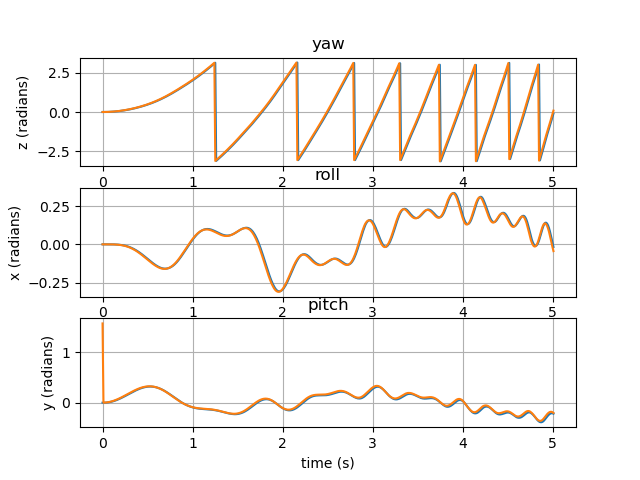
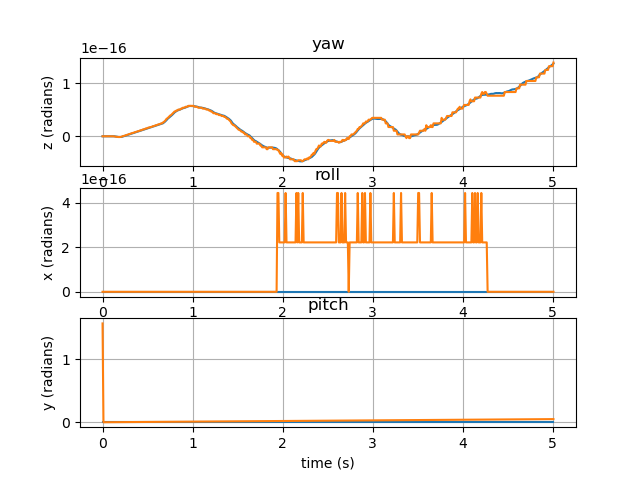
Not working controller

diff --git a/MultiRotorDynamics.py b/MultiRotorDynamics.py
@@ -19,17 +19,19 @@ class Limb:
         self.T = ut.transformation_matrix(self.R,self.t_vec)
 
 class Rotor(Limb):
-    def __init__(self, m, rot_vec, t_vec, rps, C_q, C_t):
+    def __init__(self, m, rot_vec, t_vec, rps, C_q, C_t, sigma):
         super().__init__(m,rot_vec,t_vec)
         self.rps = rps #Rotations per second
+        self.sigma = sigma #which way the rotor rotates
         self.C_q = C_q
         self.C_t = C_t
     
     #returns the force in body frame
     def get_force_bf(self):
-        force_rf = self.C_t*self.rps**2*np.array([0,0,1])
+        force_rf = self.C_t*self.rps**2*np.array([0,0,1])*np.sign(self.rps)*self.sigma
         force_rf = np.reshape(force_rf,(3,1))
         force_bf = self.R@force_rf
+        print(f"force_bf : {force_bf}")
         return force_bf
     
     def get_rps(self):
@@ -39,7 +41,8 @@ class Rotor(Limb):
         self.rps = rps
 
     def force_to_rps(self, force):
-        return np.sqrt(force/self.C_t)
+        print(np.sqrt(np.abs(force)/self.C_t)*np.sign(force)*self.sigma)
+        return np.sqrt(np.abs(force)/self.C_t)*np.sign(force)*self.sigma
 
     def set_force(self, force):
         self.set_rps(self.force_to_rps(force))
@@ -104,10 +107,10 @@ class TrajectoryPlanner():
     def __init__(self, delta_t, max_time, x_d_lambda,b1_d_lambda):
         self.delta_t = delta_t
         self.max_time = max_time
-        self.t = np.linspace(0,max_time,int(max_time/delta_t)) 
+        self.t = np.linspace(0,max_time,int(max_time/delta_t)+1) 
         self.x_d = x_d_lambda(self.t)
-        self.x_dot_d = derivative(self.x_d,self.t,dx=1e-6)
-        self.x_dot_dot_d = derivative(self.x_d,self.t,dx=1e-6,n=2)
+        self.x_dot_d = derivative(x_d_lambda,self.t,dx=1e-6)
+        self.x_dot_dot_d = derivative(x_d_lambda,self.t,dx=1e-6,n=2)
         self.b1_d = b1_d_lambda(self.t)
 
         self.prev_R_d = np.eye(3)
@@ -116,21 +119,20 @@ class TrajectoryPlanner():
 
         
     def get_trajectory(self,time):
-        return self.x_d[int(time/self.delta_t)],self.x_dot_d[int(time/self.delta_t)],self.x_dot_dot_d[int(time/self.delta_t)], self.b1_d[int(time/self.delta_t)]
+        return self.x_d[:,int(time/self.delta_t)],self.x_dot_d[:,int(time/self.delta_t)],self.x_dot_dot_d[:,int(time/self.delta_t)], self.b1_d[:,int(time/self.delta_t)]
 
 
 
 
 
 
-# NEED TO CALCULATE R_DOT_D SUCH THAT R_D.T@R_DOT_D = ANGVEL_D THEN WE CAN DIFFERENTIATE THAT BITCH NAH MEAN
 class Controller():
-    def __init__(self,k_x,k_v,k_R,k_omega, TrajectoryPlanner: TrajectoryPlanner):
+    def __init__(self,k_x,k_v,k_R,k_omega, TrajectoryPlanner: TrajectoryPlanner,rotors: List[Rotor]):
         self.k_x = k_x
         self.k_v = k_v
         self.k_R = k_R
         self.k_omega = k_omega
-        
+        self.allocation_matrix = self.calculate_allocation_matrix(rotors)
         self.TP = TrajectoryPlanner
         
     
@@ -140,7 +142,10 @@ class Controller():
     
 
     def calculate_errors(self, m, time, R_mat, ang_vel, t_vec, t_vec_dot):
-        R_mat = R_mat.T # This is because paper uses R as rotation from body frame to inertial frame as opposed to my implementation
+        # R_x = R.from_euler("zxy",np.array([0,np.pi,0])).as_matrix()
+        # R_mat = (R_x@R_mat@R_x.T).T # This is because paper uses R as rotation from body frame to inertial frame as opposed to my implementation
+        # R_mat = R_mat.T
+
         delta_t = self.TP.delta_t
         e3 = np.array([0,0,1],dtype = float)
         
@@ -162,7 +167,7 @@ class Controller():
         #Calculate ang_vel
         delta_R_d = R_d-self.TP.prev_R_d
         R_d_dot = delta_R_d/delta_t
-        ang_vel_d = R_d.T@R_d_dot
+        ang_vel_d = ut.unskew(R_d.T@R_d_dot)
         delta_ang_vel_d = ang_vel_d-self.TP.prev_ang_vel_d
         self.TP.ang_vel_dot_d = delta_ang_vel_d/self.TP.delta_t
 
@@ -174,18 +179,53 @@ class Controller():
         #update previous with current
         self.TP.prev_R_d = R_d
         self.TP.prev_ang_vel_d = ang_vel_d
-
+         # e_omega too big, makes no sense
+        print(f"errors: {e_x, e_v, e_R, e_omega}")
         return e_x, e_v, e_R, e_omega
         
       
-    def calculate_forces(self,m,e_x,e_v,e_R, e_omega, R_mat,R_d, ang_vel, J):
-        R_mat = R_mat.T # This is because paper uses R as rotation from body frame to inertial frame as opposed to my implementation
+    def calculate_forces(self,m,e_x,e_v,e_R, e_omega, R_mat, ang_vel, J):
+        # R_x = R.from_euler("zxy",np.array([0,np.pi,0])).as_matrix()
+        # R_mat = (R_x@R_mat@R_x.T).T # This is because paper uses R as rotation from body frame to inertial frame as opposed to my implementation
+        # R_mat = R_mat.T
         e3 = np.array([0,0,1],dtype = float)
         x_dot_dot_d = self.traj[2]
 
-        f = -(-self.k_x*e_x-self.k_v*e_v-m*g*e3+m*x_dot_dot_d)@R_mat@e3
-        M = -self.k_R*e_R-self.k_omega*e_omega+ut.skew(ang_vel)@J@ang_vel-J@(ut.skew(ang_vel)@R_mat.T@R_d@self.TP.prev_ang_vel_d-R_mat.T@R_d@self.TP.ang_vel_dot_d)
+        f = (-self.k_x*e_x-self.k_v*e_v-m*g*e3+m*x_dot_dot_d)@R_mat@e3 # THIS IS OPPOSITE SIGN FROM PAPER
+        M = -self.k_R*e_R-self.k_omega*e_omega+ut.skew(ang_vel)@J@ang_vel-J@(ut.skew(ang_vel)@R_mat.T@self.TP.prev_R_d@self.TP.prev_ang_vel_d-R_mat.T@self.TP.prev_R_d@self.TP.ang_vel_dot_d)
         return f, M
+    
+    def calculate_allocation_matrix(self, rotors):
+        e3 = np.array([0,0,1],dtype = float)
+        n_r = 0
+        allocation_matrix = np.array([])
+        for rotor in rotors:
+            n_r += 1
+            gamma = rotor.R@e3
+            gamma_proj = e3.T@gamma #Forces projected on b3 in body frame
+            theta = (ut.skew(rotor.t_vec)+rotor.C_q/rotor.C_t*rotor.sigma*np.eye(3))@gamma
+            allocation_matrix = np.append(allocation_matrix,np.insert(theta,0,gamma_proj))
+        allocation_matrix = np.reshape(allocation_matrix,(4,n_r)).T
+        print(allocation_matrix) 
+        return allocation_matrix
+
+    def force_allocation(self, f, M):
+        
+        forces = np.insert(M,0,f)
+        rotor_forces = np.linalg.solve(self.allocation_matrix,forces) #allocation_matrix@[f1,f2,f3,f4] = [f,M] solves for f1,f2,f3,f4
+        print(f"[f,M] : {forces}")
+        return rotor_forces
+
+    def get_rotor_forces(self,m,J,time,R_mat,ang_vel,t_vec,t_vec_dot):
+        e_x, e_v, e_R, e_omega = self.calculate_errors(m,time,R_mat,ang_vel,t_vec,t_vec_dot)
+        f, M = self.calculate_forces(m,e_x,e_v, e_R, e_omega, R_mat, ang_vel, J)
+        
+        rotor_forces = self.force_allocation(f, M)
+        
+        
+        print(f"rotor_forces : {rotor_forces}")
+        return rotor_forces
+
 
     
 
@@ -248,13 +288,14 @@ class MultiRotor:
         self.rotors = rotors
         self.dep_cams = dep_cams
         self.IMU = IMU
+        self.Controller = Controller
         self.J = self.calculate_inertial_tensor()
 
         self.t_vec_history = np.reshape(t_vec,(3,1))
         self.rot_vec_history = np.reshape(rot_vec,(3,1))
 
         self.total_mass = self.calculate_total_mass()
-        self.TPlanner = TrajectoryPlanner
+        
         
 
     def calculate_total_mass(self):
@@ -316,8 +357,11 @@ class MultiRotor:
     def calculate_sum_of_torques_bf(self):
         return self.calculate_reaction_torque_bf()+self.calculate_torque_from_thrust_bf()+self.calculate_torque_from_gravity_bf()
 
-    
-
+    def set_rotor_forces(self,rotor_forces):
+        i = 0
+        for rotor in self.rotors:
+            rotor.set_force(rotor_forces[i])
+            i += 1
 
     def set_depth_frames(self, obst_wf):
         T = ut.transformation_matrix(self.R,self.t_vec)
@@ -350,14 +394,17 @@ class MultiRotor:
         self.R_dot = self.R@ut.skew(self.ang_vel) #1c)
         
         self.time += delta_t
-
+        
         #update values
+        rotor_forces = self.Controller.get_rotor_forces(self.total_mass, self.J, self.time,self.R,self.ang_vel,self.t_vec,self.t_vec_dot)
+        self.set_rotor_forces(rotor_forces)
         self.T = ut.transformation_matrix(self.R,self.t_vec)
         self.t_vec_history = np.append(self.t_vec_history,np.reshape(self.t_vec,(3,1)),1)
         self.rot_vec_history = np.append(self.rot_vec_history,np.reshape(self.rot_vec,(3,1)),1)
         self.set_depth_frames(obst_wf)
         self.depth_frames = self.get_depth_frames()
         self.IMU.update_estimates(forces_bf, self.ang_vel, self.total_mass,self.R,delta_t)
+        
 
         
 

diff --git a/main.py b/main.py
@@ -5,11 +5,11 @@ import plotting as plt
 
 #Physical Constants
 g = 9.81
-m_centroid = 0.5
-m_rotor = 1
+m_centroid = 3
+m_rotor = 0.5
 m_IMU = 0.1
 m_dep_cam = 0.1
-m_total = 4.7
+m_total = 5.2
 d = 0.315
 C_q = 8.004e-4 #drag_coefficient
 C_t = 1e-2 #Thrust coefficient
@@ -40,14 +40,14 @@ obst_wf[1,1] = 4
 obst_wf[0,0] = 5
 
 #controller parameters
-k_x = 16*m_total 
+k_x = 32*m_total 
 k_v = 5.6*m_total
 k_R = 8.81
 k_omega = 2.54
 
 #Trajectory
-x_d = lambda t : np.array([0.4*t,0.4*np.sin(np.pi*t),0.4*np.cos(np.pi*t)])
-b1_d = lambda t : np.array([np.cos(np.pi*t),np.sin(np.pi*t),0])
+x_d = lambda t : np.array([0*t,0*t,1*t])# x_d = lambda t : np.array([0.4*t,0.4*np.sin(np.pi*t),0.6*np.cos(np.pi*t)])
+b1_d = lambda t : np.array([1*t,0*t,0*t])# b1_d = lambda t : np.array([np.cos(np.pi*t),np.sin(np.pi*t),0*t])
 
 
 
@@ -57,18 +57,18 @@ def main():
     IMU = mrd.IMU(m_IMU,np.array([0,0,np.pi/2],dtype=float),np.array([0,0,0],dtype=float),gyro_bias,magnet_bias, k_a,k_m,k_b)
 
     TrajectoryPlanner = mrd.TrajectoryPlanner(delta_t,max_time,x_d,b1_d)
-    Controller = mrd.Controller(k_x,k_v,k_R,k_omega,TrajectoryPlanner)
+    
     #Normal Quadrotor rotors
-    rotors.append(mrd.Rotor(m_rotor,np.array([0,0,0],dtype=float),np.array([d,0,0],dtype=float),-16.5,C_q,C_t))
-    rotors.append(mrd.Rotor(m_rotor,np.array([0,0,0],dtype=float),np.array([0,d,0],dtype=float),16.5,C_q,C_t))
-    rotors.append(mrd.Rotor(m_rotor,np.array([0,0,0],dtype=float),np.array([-d,0,0],dtype=float),-16.5,C_q,C_t))
-    rotors.append(mrd.Rotor(m_rotor,np.array([0,0,0],dtype=float),np.array([0,-d,0],dtype=float),16.5,C_q,C_t))
-
-    dep_cams.append(mrd.DepthCamera(m_dep_cam, rot_vec=np.array([0,0,0],dtype=float), t_vec=np.array([0,0,d],dtype=float),AoV=AoV,K = K,res = res))
+    rotors.append(mrd.Rotor(m_rotor,np.array([0,0,0],dtype=float),np.array([d,0,0],dtype=float),0,C_q,C_t,-1))
+    rotors.append(mrd.Rotor(m_rotor,np.array([0,0,0],dtype=float),np.array([0,d,0],dtype=float),0,C_q,C_t,1))
+    rotors.append(mrd.Rotor(m_rotor,np.array([0,0,0],dtype=float),np.array([-d,0,0],dtype=float),0,C_q,C_t,-1))
+    rotors.append(mrd.Rotor(m_rotor,np.array([0,0,0],dtype=float),np.array([0,-d,0],dtype=float),0,C_q,C_t,1))
+    Controller = mrd.Controller(k_x,k_v,k_R,k_omega,TrajectoryPlanner, rotors)
+    dep_cams.append(mrd.DepthCamera(m_dep_cam, rot_vec=np.array([0.1,0,0],dtype=float), t_vec=np.array([0,0,d],dtype=float),AoV=AoV,K = K,res = res))
     
     quad = mrd.MultiRotor(m_centroid,
                           rot_vec=np.array([0,0,0],dtype=float),
-                          t_vec=np.array([1,1,1],dtype=float),
+                          t_vec=np.array([0,0,0],dtype=float),
                           ang_vel=np.array([0,0,0],dtype=float),
                           rotors=rotors,
                           dep_cams = dep_cams,
@@ -96,8 +96,8 @@ def main():
     # print(quad.dep_cams[0].depth_frame.shape)
     # print(np.max(quad.dep_cams[0].depth_frame))
     # print(np.unravel_index(np.argmax(quad.dep_cams[0].depth_frame),quad.dep_cams[0].depth_frame.shape))
-    print(quad.IMU.R_est)
-    print(quad.IMU.gyro_bias_est)
+    # print(quad.IMU.R_est)
+    # print(quad.IMU.gyro_bias_est)
     plt.plot_attitude(quad.rot_vec_history, quad.IMU.rot_vec_est_history, delta_t)
     plt.plot_position_3d(quad.t_vec_history,obst_wf)
 

diff --git a/utils.py b/utils.py
@@ -16,6 +16,7 @@ def transformation_matrix(R,t):
     T[3,3] = 1
     return T
 
+     
 #Performs a coordinate transformation on the points (3, n) using T (4,4)
 def coordinate_transformation(T, points):
     if not (points.shape[0] == 4):
